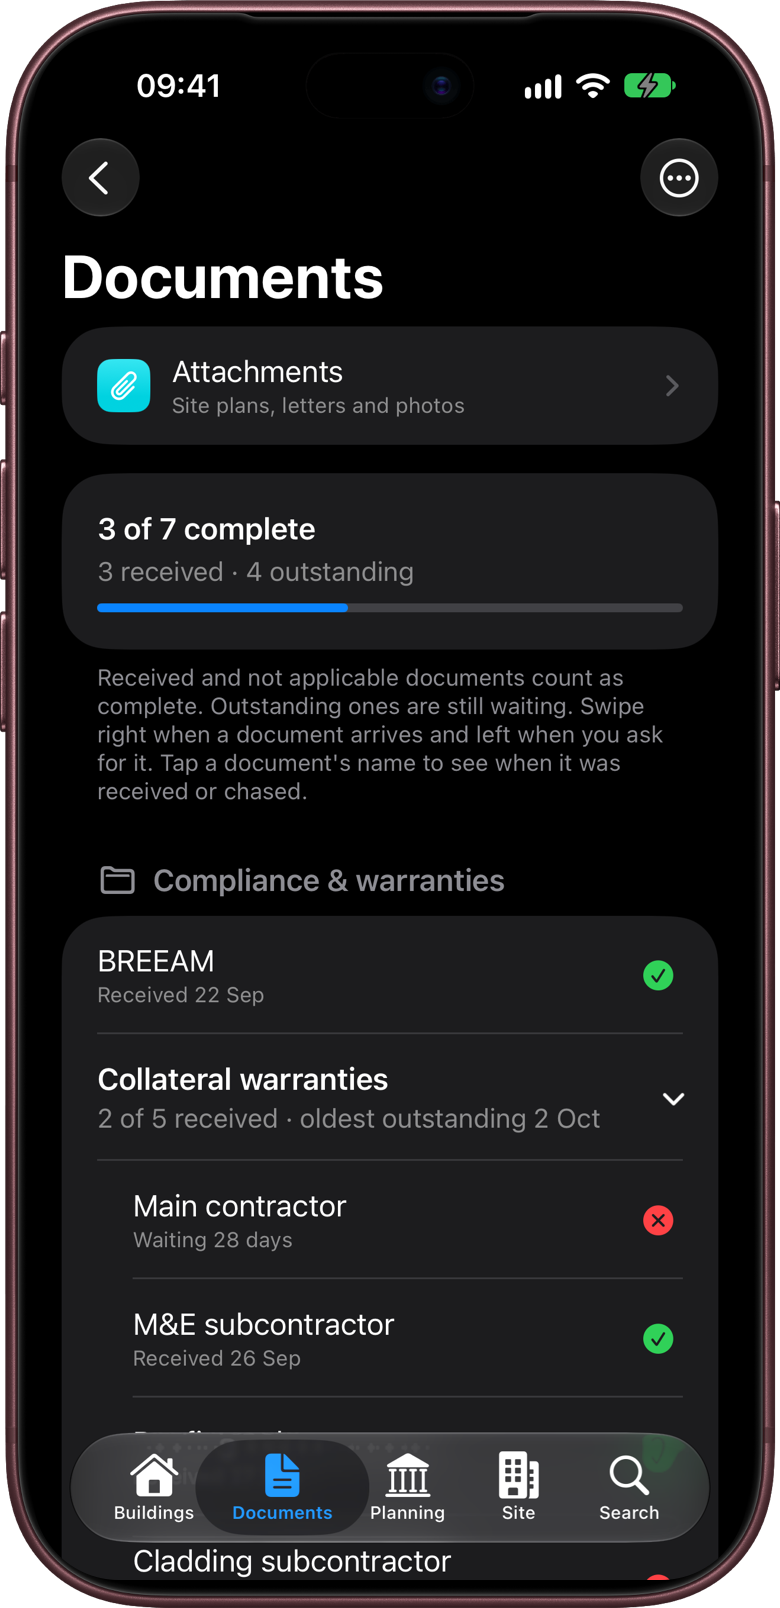
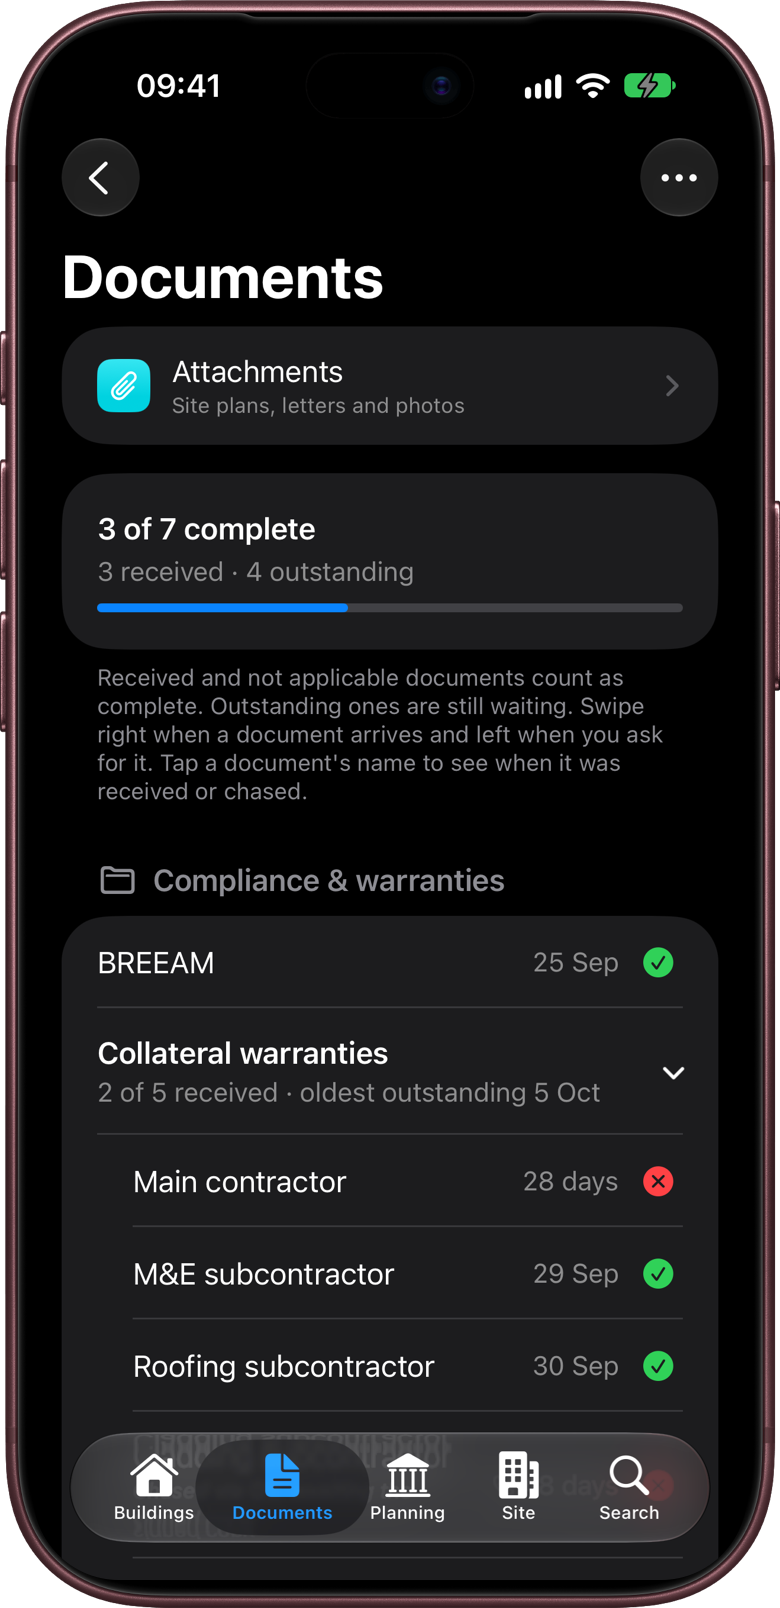
KeyCheck manual: retake five screenshots (documents, snags, settings, project log)

diff --git a/keycheck/manual-documents-and-certificates.html b/keycheck/manual-documents-and-certificates.html
@@ -68,7 +68,7 @@
 
       <figure class="shot">
         <a href="images/plot-documents.png" target="_blank" rel="noopener noreferrer">
-          <img src="images/plot-documents.png" alt="Plot 8&#x27;s documents under their group headings, each with a count and a ⋯ button, such as Renewables &amp; EV 1 of 3 and Ventilation &amp; tightness 2 of 3. Received documents have a green tick and outstanding ones a red cross, with how long they&#x27;ve been waiting" loading="lazy">
+          <img src="images/plot-documents.png" alt="Plot 8&#x27;s documents under their group headings, each with a count and a ⋯ button: Electrical &amp; safety 4 of 4, Renewables &amp; EV 1 of 3 and Ventilation &amp; tightness 2 of 3. Each document is one row, with its date or how many days it&#x27;s been waiting beside a green tick, a red cross or an empty circle" loading="lazy">
         </a>
         <figcaption>Documents on a plot, under a heading for each group</figcaption>
       </figure>
@@ -179,7 +179,7 @@
 
       <figure class="shot">
         <a href="images/project-documents.png" target="_blank" rel="noopener noreferrer">
-          <img src="images/project-documents.png" alt="Riverside Business Park&#x27;s Documents tab: the Attachments row at the top, 3 of 7 complete (3 received · 4 outstanding) with a bar, and the Collateral warranties bundle opened to show 2 of 5 received and its first items" loading="lazy">
+          <img src="images/project-documents.png" alt="Riverside Business Park&#x27;s Documents tab: the Attachments row at the top, 3 of 7 complete (3 received · 4 outstanding) with a bar, then BREEAM and the Collateral warranties bundle opened to show 2 of 5 received: Main contractor waiting 28 days, and the M&amp;E and roofing subcontractors received" loading="lazy">
         </a>
         <figcaption>The Documents tab, with Attachments at the top and the Collateral warranties bundle opened</figcaption>
       </figure>

diff --git a/keycheck/manual-the-project-log.html b/keycheck/manual-the-project-log.html
@@ -42,7 +42,7 @@
       <p>Entries are listed under date headings, such as <strong>Today</strong>, <strong>Yesterday</strong> or <strong>12 November 2026</strong>, with the newest at the top. Each entry shows its type, the text, and on a shared project who wrote it.</p>
       <figure class="shot">
         <a href="images/project-log.png" target="_blank" rel="noopener noreferrer">
-          <img src="images/project-log.png" alt="Meadow View Phase 2's Project log, with Add entry and Dictate buttons at the top and Filter at the top right. Under Yesterday is a Note, Scaffold struck on Harebell Close; under 15 November and 9 November are two Chased entries; and under 3 November an Issue about the council and the remediation verification report" loading="lazy">
+          <img src="images/project-log.png" alt="Meadow View Phase 2&#x27;s Project log, with Add entry and Dictate buttons at the top and Filter at the top right. Each entry is a card under its date: under Yesterday a Note, Scaffold struck on Harebell Close; under 18 and 12 November two Chased entries; and under 6 November an Issue about the council and the remediation verification report" loading="lazy">
         </a>
       </figure>
 

diff --git a/keycheck/manual-recording-a-plot-handover.html b/keycheck/manual-recording-a-plot-handover.html
@@ -209,7 +209,7 @@
       <p>Completed snags appear on the handover form and under <strong>Outstanding items completed</strong> in the progress report (chapter 11).</p>
       <figure class="shot">
         <a href="images/plot-snags.png" target="_blank" rel="noopener noreferrer">
-          <img src="images/plot-snags.png" alt="Defects / outstanding items on Unit 2: two open snags, for the fire stopping contractor and the controls engineer, and one ticked snag, Clean glazing externally, completed 16 Nov 2026" loading="lazy">
+          <img src="images/plot-snags.png" alt="Defects / outstanding items on Unit 2: two open snags, Fire stopping to riser penetrations (Fire stopping contractor, due 27 Nov) and Commission BMS heating zones (Controls engineer, due 3 Dec), each with an empty circle on the right, and Clean glazing externally struck through with a green tick (Cleaners, done 19 Nov)" loading="lazy">
         </a>
         <figcaption>Open snags and a completed one</figcaption>
       </figure>

diff --git a/keycheck/manual-setting-up.html b/keycheck/manual-setting-up.html
@@ -85,7 +85,7 @@
 
       <figure class="shot">
         <a href="images/settings.png" target="_blank" rel="noopener noreferrer">
-          <img src="images/settings.png" alt="Settings showing Subscription (KeyCheck Pro, Not active, with Restore Purchases), Your name, Appearance, and Branding with the Default profile, Add branding profile and Show Prepared with KeyCheck" loading="lazy">
+          <img src="images/settings.png" alt="Settings showing Subscription (KeyCheck Pro, Not active, with Restore Purchases), Your name, Appearance (Automatic, Light or Dark), and Branding with the Default profile, Add branding profile and Show Prepared with KeyCheck" loading="lazy">
         </a>
         <figcaption>Settings, with your subscription, your name and your branding profiles</figcaption>
       </figure>
